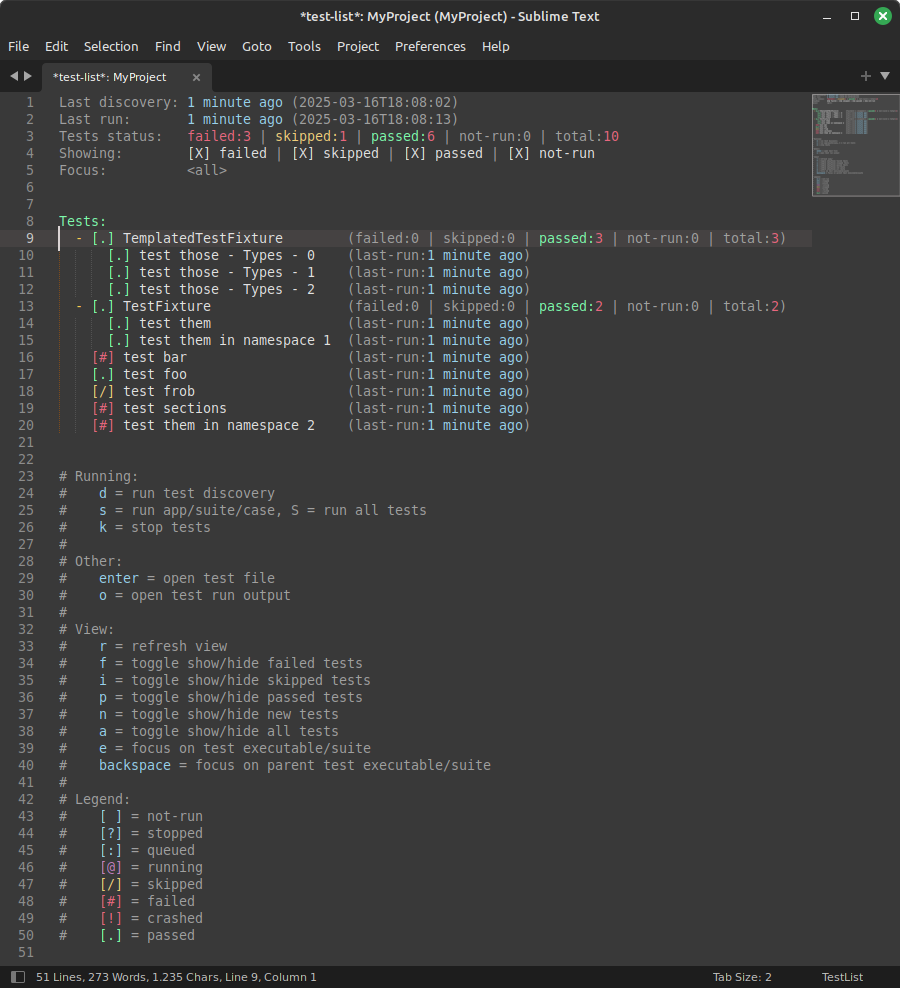
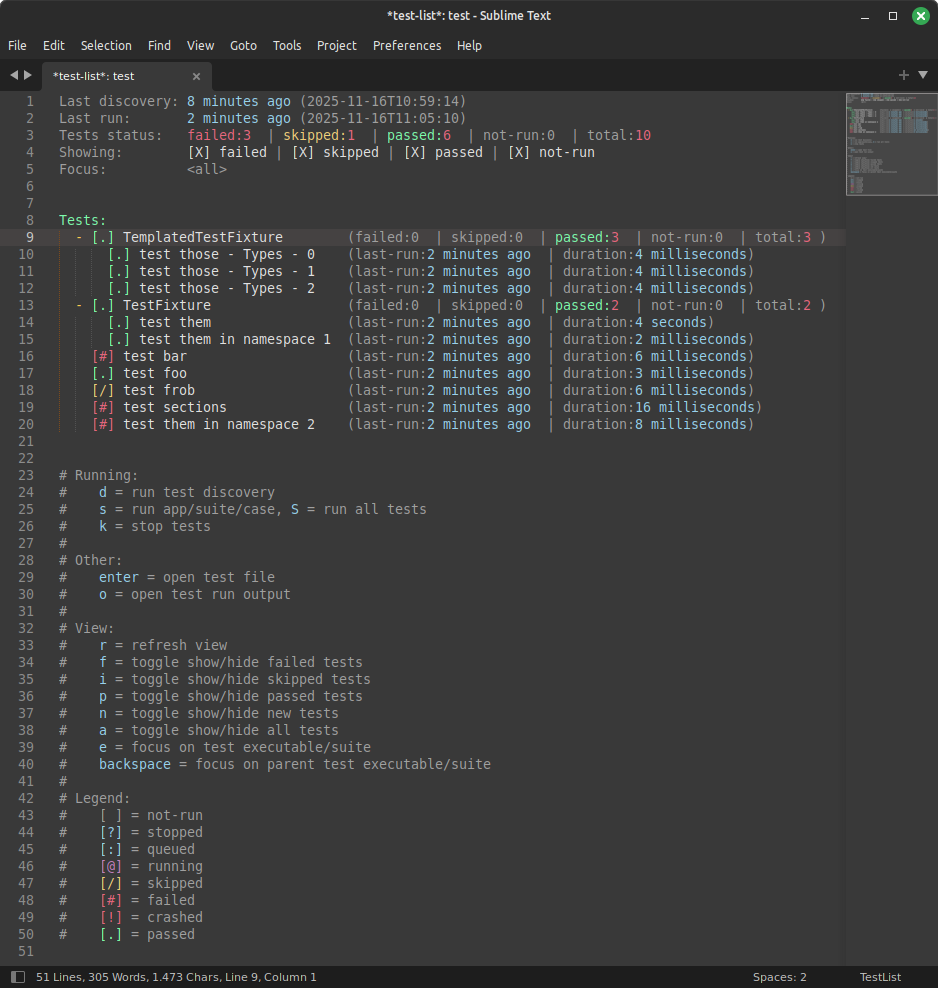
Add test duration

diff --git a/texpl/test_data.py b/texpl/test_data.py
@@ -4,7 +4,7 @@ import time
 import copy
 import enum
 import threading
-from datetime import datetime
+from datetime import datetime, timedelta
 from typing import Optional, List, Dict, Set
 import sqlite3
 from contextlib import closing
@@ -41,6 +41,12 @@ def date_from_db(data: Optional[str]) -> Optional[datetime]:
         return None
 
     return datetime.fromisoformat(data)
+
+def duration_from_db(data: Optional[float]) -> Optional[timedelta]:
+    if data is None:
+        return None
+
+    return timedelta(seconds=data)
 
 
 def test_name_to_path(name: str):
@@ -98,10 +104,12 @@ class StartedTest:
 
 
 class FinishedTest:
-    def __init__(self, full_name: List[str] = [], status=TestStatus.NOT_RUN, message=''):
+    def __init__(self, full_name: List[str] = [], status=TestStatus.NOT_RUN, message='',
+                 finished_time=None):
         self.full_name = full_name
         self.status = status
         self.message = message
+        self.finished_time = datetime.now() if finished_time is None else finished_time
 
 
 class TestOutput:
@@ -121,9 +129,11 @@ class FinishedRun:
 
 
 class TestItem:
-    def __init__(self, name='', full_name='', discovery_id=0, suite_id='', run_id='', report_id='', location=None,
+    def __init__(self, name='', full_name='', discovery_id=0, suite_id='', run_id='', report_id='',
+                 location: Optional[TestLocation] = None,
                  last_status=TestStatus.NOT_RUN, run_status=RunStatus.NOT_RUNNING,
-                 last_run=None, children: Optional[Dict] = None):
+                 last_run: Optional[datetime] = None, last_duration: Optional[timedelta] = None,
+                 children: Optional[Dict] = None):
         self.name: str = name
         self.full_name: str = full_name
         self.discovery_id: int = discovery_id
@@ -134,6 +144,7 @@ class TestItem:
         self.last_status: TestStatus = last_status
         self.run_status: RunStatus = run_status
         self.last_run: Optional[datetime] = last_run
+        self.last_duration: Optional[timedelta] = last_duration
         self.children: Optional[Dict[str, TestItem]] = children
 
     @staticmethod
@@ -148,10 +159,11 @@ class TestItem:
                         last_status=TestStatus[row['last_status'].upper()],
                         run_status=RunStatus[row['run_status'].upper()],
                         last_run=date_from_db(row['last_run']),
+                        last_duration=duration_from_db(row['last_duration']),
                         children=None if row['leaf'] else {})
 
     def save(self, con: sqlite3.Connection):
-        con.execute('INSERT OR REPLACE INTO tests VALUES (?,?,?,?,?,?,?,?,?,?,?,?,?)',
+        con.execute('INSERT OR REPLACE INTO tests VALUES (?,?,?,?,?,?,?,?,?,?,?,?,?,?)',
                     (self.full_name,
                      self.name,
                      self.discovery_id,
@@ -164,7 +176,8 @@ class TestItem:
                      self.last_status.name.lower(),
                      self.run_status.name.lower(),
                      self.last_run,
-                     self.children is None))
+                     self.children is None,
+                     self.last_duration.total_seconds() if self.last_duration else None))
 
         if self.children is not None:
             for c in self.children.values():
@@ -209,6 +222,8 @@ class TestItem:
     def update_from_finished(self, test: FinishedTest):
         self.last_status = test.status
         self.run_status = RunStatus.NOT_RUNNING
+        if self.last_run is not None:
+            self.last_duration = test.finished_time - self.last_run
 
     def recompute_status(self):
         if self.children is None:
@@ -273,37 +288,9 @@ class TestList:
 
         return tests
 
-    @staticmethod
-    def is_initialised(location):
-        return os.path.exists(os.path.join(location, DB_FILE))
-
     def save(self, refresh_hints=[]):
-        os.makedirs(self.location, exist_ok=True)
         with closing(sqlite3.connect(os.path.join(self.location, DB_FILE))) as con:
             with con:
-                tables = [r[0] for r in con.execute('SELECT name FROM sqlite_master').fetchall()]
-                if not 'tests' in tables:
-                    con.execute("""CREATE TABLE tests(
-                        full_name TEXT PRIMARY KEY,
-                        name TEXT,
-                        discovery_id INT,
-                        suite_id TEXT,
-                        run_id TEXT,
-                        report_id TEXT,
-                        location_executable TEXT,
-                        location_file TEXT,
-                        location_line INT,
-                        last_status TEXT,
-                        run_status TEXT,
-                        last_run TIMESTAMP,
-                        leaf BOOL
-                        )""")
-
-                    con.execute("""CREATE TABLE test_ouputs(
-                        full_name TEXT PRIMARY KEY,
-                        output TEXT
-                        )""")
-
                 if len(refresh_hints) == 0:
                     con.execute("""DELETE FROM tests""")
 
@@ -456,6 +443,8 @@ class TestList:
                 return '' if output is None else output[0]
 
 
+DB_VERSION = 2
+
 class TestMetaData:
     def __init__(self, location: str):
         self.location = location
@@ -485,41 +474,103 @@ class TestMetaData:
     def is_initialised(location):
         return os.path.exists(os.path.join(location, DB_FILE))
 
+    @staticmethod
+    def init(location):
+        os.makedirs(location, exist_ok=True)
+        db_path = os.path.join(location, DB_FILE)
+
+        try:
+            os.remove(db_path)
+        except:
+            pass
+
+        with closing(sqlite3.connect(db_path)) as con:
+            with con:
+                con.execute("""CREATE TABLE meta(
+                    last_discovery TIMESTAMP,
+                    running BOOL,
+                    discovering BOOL,
+                    version INT
+                    )""")
+
+                con.execute('INSERT INTO meta VALUES (?,?,?,?)', (None, False, False, DB_VERSION))
+
+                con.execute("""CREATE TABLE tests(
+                    full_name TEXT PRIMARY KEY,
+                    name TEXT,
+                    discovery_id INT,
+                    suite_id TEXT,
+                    run_id TEXT,
+                    report_id TEXT,
+                    location_executable TEXT,
+                    location_file TEXT,
+                    location_line INT,
+                    last_status TEXT,
+                    run_status TEXT,
+                    last_run TIMESTAMP,
+                    leaf BOOL,
+                    last_duration FLOAT
+                    )""")
+
+                con.execute("""CREATE TABLE test_ouputs(
+                    full_name TEXT PRIMARY KEY,
+                    output TEXT
+                    )""")
+
+    @staticmethod
+    def migrate(location):
+        with closing(sqlite3.connect(os.path.join(location, DB_FILE))) as con:
+            with con:
+                con.row_factory = sqlite3.Row
+
+                # Check everything is in order.
+                tables = con.execute('SELECT name FROM sqlite_master').fetchall()
+                if tables is None:
+                    raise Exception('No tables table')
+
+                table_names = [r[0] for r in tables]
+                if not 'meta' in table_names:
+                    raise Exception('Missing meta table')
+
+                output: sqlite3.Row = con.execute('SELECT * from meta').fetchone()
+                if output is None:
+                    raise Exception('Meta table is empty')
+
+                # Extract current DB version.
+                previous_version = 1
+                if 'version' in output.keys():
+                    previous_version = output['version']
+
+                if previous_version == DB_VERSION:
+                    logger.info(f'Database is up-to-date')
+                    return
+
+                logger.info(f'Migrating DB from version {previous_version} to {DB_VERSION}...')
+
+                # Migrate older versions.
+                if previous_version == 1:
+                    con.execute('ALTER TABLE meta ADD COLUMN version INT')
+                    con.execute('ALTER TABLE tests ADD COLUMN last_duration FLOAT')
+
+                con.execute('UPDATE meta SET version=?', (DB_VERSION, ))
+
+        logger.info(f'Migration of DB from version {previous_version} to {DB_VERSION} successful')
+
+
     def save(self):
         os.makedirs(self.location, exist_ok=True)
         with closing(sqlite3.connect(os.path.join(self.location, DB_FILE))) as con:
             with con:
-                tables = [r[0] for r in con.execute('SELECT name FROM sqlite_master').fetchall()]
-                if not 'meta' in tables:
-                    con.execute("""CREATE TABLE meta(
-                        last_discovery TIMESTAMP,
-                        running BOOL,
-                        discovering BOOL
-                        )""")
-                    con.execute('INSERT INTO meta VALUES (?,?,?)', (
+                con.execute("""UPDATE meta SET
+                    last_discovery=?,
+                    running=?,
+                    discovering=?
+                    """,
+                    (
                         self.last_discovery,
                         self.running,
                         self.discovering
                     ))
-                else:
-                    con.execute("""UPDATE meta SET
-                        last_discovery=?,
-                        running=?,
-                        discovering=?
-                        """,
-                        (
-                            self.last_discovery,
-                            self.running,
-                            self.discovering
-                        ))
-
-
-def clear_test_data(location):
-    try:
-        db_path = os.path.join(location, DB_FILE)
-        os.remove(db_path)
-    except:
-        pass
 
 
 class TestData:
@@ -539,10 +590,18 @@ class TestData:
             return
 
         try:
+            self.migrate()
+        except Exception as e:
+            logger.error(f'could not migrate existing DB, creating a new one', exc_info=e)
+            self.init()
+            return
+
+        try:
             self.load()
         except Exception as e:
-            logger.error('could not load existing DB, creating a new one')
+            logger.error(f'could not load existing DB, creating a new one', exc_info=e)
             self.init()
+            return
 
         if self.meta.running:
             # Plugin was reloaded or SublimeText killed while running tests, so we didn't
@@ -562,7 +621,10 @@ class TestData:
             self.commit(meta=self.meta)
 
     def is_initialised(self):
-        return TestMetaData.is_initialised(self.location) and TestList.is_initialised(self.location)
+        return TestMetaData.is_initialised(self.location)
+
+    def migrate(self):
+        return TestMetaData.migrate(self.location)
 
     def load(self):
         try:
@@ -575,7 +637,8 @@ class TestData:
             raise
 
     def init(self):
-        clear_test_data(self.location)
+        TestMetaData.init(self.location)
+
         self.tests_updated = True
         self.meta_updated = True
         self.commit(meta=TestMetaData(self.location), tests=TestList(self.location))

diff --git a/texpl/list.py b/texpl/list.py
@@ -2,14 +2,14 @@
 import os
 import logging
 import math
-from datetime import datetime
+from datetime import datetime, timedelta
 from functools import partial
 from typing import Callable, Optional, List, Dict, Tuple
 
 import sublime
 from sublime_plugin import (ApplicationCommand, WindowCommand, TextCommand, EventListener)
 
-from .util import (find_views_for_data, SettingsHelper, readable_date_delta)
+from .util import (find_views_for_data, SettingsHelper, readable_date_delta, readable_duration)
 from .helpers import TestDataHelper
 from .test_data import (ROOT_NAME, TestList, get_test_stats, TestItem, TestData,
                         RunStatus, test_name_to_path, test_path_to_name)
@@ -319,6 +319,9 @@ class TestManagerListBuilder(TestDataHelper, SettingsHelper):
         else:
             return readable_date_delta(date)
 
+    def duration_to_string(self, duration: Optional[timedelta]) -> str:
+        return '--' if duration is None else readable_duration(duration)
+
     def stats_to_string(self, stats, stats_width: int) -> str:
         stats['failed'] += stats['crashed']
         stats['not_run'] += stats['stopped']
@@ -334,7 +337,7 @@ class TestManagerListBuilder(TestDataHelper, SettingsHelper):
         if item.children is not None:
             return f'{line}{padding} ({self.stats_to_string(get_test_stats(item), stats_width)})'
         else:
-            return f'{line}{padding} (last-run:{self.date_to_string(item.last_run)})'
+            return f'{line}{padding} (last-run:{self.date_to_string(item.last_run):<14} | duration:{self.duration_to_string(item.last_duration)})'
 
     def build_tests(self, test_list: TestList, focus_path: List[str],
                     sort_key: Callable, visibility=None, max_depth=0,

diff --git a/texpl/util.py b/texpl/util.py
@@ -3,7 +3,7 @@ import datetime
 import sys
 from os import path
 import logging
-from datetime import datetime
+from datetime import datetime, timedelta
 from typing import Optional
 
 import sublime
@@ -176,6 +176,29 @@ def readable_date_delta(from_date: datetime, until_date: Optional[datetime] = No
         return '%d minute%s ago' % (delta_minutes, plur(delta_minutes))
     else:
         return '%d second%s ago' % (delta.seconds, plur(delta.seconds))
+
+def readable_duration(duration: timedelta):
+    # Durations are stored as microseconds, seconds and days; we have to get hours and minutes ourselves
+    duration_minutes = duration.seconds // 60
+    duration_hours = duration_minutes // 60
+    duration_minutes = duration_minutes % 60
+    duration_milliseconds = duration.microseconds // 1000
+    duration_microseconds = duration.microseconds % 1000
+
+    def plur(it: int):
+        return '' if it == 1 else 's'
+
+    if duration.days:
+        return f'{duration.days} day{plur(duration.days)}'
+    if duration_hours:
+        return f'{duration_hours} hour{plur(duration_hours)}'
+    if duration_minutes:
+        return f'{duration_minutes} minute{plur(duration_minutes)}'
+    if duration.seconds:
+        return f'{duration.seconds} second{plur(duration.seconds)}'
+    if duration_milliseconds:
+        return f'{duration_milliseconds} millisecond{plur(duration_milliseconds)}'
+    return f'{duration_microseconds} microseconds{plur(duration_microseconds)}'
 
 # settings helpers
 
